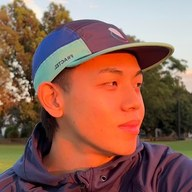
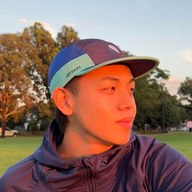
Program application: full uncropped profile photo, byline left-aligned beside it

diff --git a/program-application/index.html b/program-application/index.html
@@ -96,9 +96,9 @@
        Keep every claim true (spots, sold out, refund) - the same claims as the letter below. -->
   <div class="px-6 pt-10">
     <div class="max-w-[58ch] mx-auto text-lg md:text-xl text-gray-900 leading-relaxed">
-      <div class="reveal text-center">
+      <div class="reveal flex items-center gap-3">
+        <img src="avatar.jpg" alt="Eric Deng" width="56" height="56" class="w-14 h-14 rounded-full object-cover shadow-sm" />
         <p class="text-base text-gray-600">Eric Deng &middot; Last updated Nov 2</p>
-        <img src="avatar.jpg" alt="Eric Deng" width="64" height="64" class="w-16 h-16 rounded-full object-cover mx-auto mt-4 shadow-sm" />
       </div>
       <div class="reveal mt-6 space-y-4 italic">
         <p>Applications for the 2027 Growth Squad are now open.</p>
